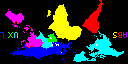
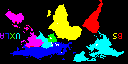
worldmap2

Changed region(s): [[0.0, 0.5, 0.1562, 0.625], [0.875, 0.5, 1.0, 0.625]]

diff --git a/comWithBox/server/webapp/app.js b/comWithBox/server/webapp/app.js
@@ -1,6 +1,6 @@
 var img1 = [0, 0, 0, 0, 0, 0, 0, 0, 0, 0, 0, 0, 64, 64, 64, 0, 0, 0, 0, 0, 0, 0, 0, 0, 120, 104, 120, 120, 96, 56, 120, 96, 88, 120, 96, 88, 56, 32, 24, 56, 48, 56, 44, 36, 44, 12, 4, 12, 0, 0, 0, 0, 0, 0, 0, 0, 0, 64, 64, 64, 64, 64, 64, 0, 0, 0, 0, 0, 0, 0, 0, 0, 88, 72, 88, 120, 96, 120, 120, 96, 88, 56, 32, 24, 56, 32, 24, 56, 32, 56, 8, 0, 8, 8, 0, 8, 0, 0, 0, 0, 0, 0, 0, 0, 0, 0, 0, 0, 64, 64, 64, 64, 64, 64, 0, 0, 0, 0, 0, 0, 48, 32, 48, 56, 40, 24, 56, 32, 24, 56, 32, 24, 56, 32, 56, 56, 48, 56, 8, 0, 8, 8, 0, 8, 0, 0, 0, 0, 0, 0, 0, 0, 0, 0, 0, 0, 64, 64, 64, 0, 0, 64, 0, 0, 0, 0, 0, 0, 48, 32, 48, 56, 40, 24, 56, 32, 24, 56, 32, 24, 56, 32, 56, 24, 16, 24, 8, 0, 8, 24, 16, 24, 0, 0, 0, 0, 0, 0, 64, 64, 64, 64, 64, 64, 0, 0, 64, 0, 0, 64, 64, 64, 64, 0, 0, 0, 48, 32, 48, 56, 40, 56, 56, 32, 56, 56, 32, 56, 24, 0, 24, 24, 16, 24, 24, 16, 24, 24, 16, 8, 0, 0, 0, 0, 0, 0, 64, 64, 64, 0, 0, 64, 0, 0, 64, 0, 0, 64, 64, 64, 64, 0, 0, 0, 48, 32, 48, 24, 0, 24, 24, 0, 24, 56, 32, 56, 24, 0, 24, 24, 16, 24, 24, 16, 24, 24, 16, 8, 0, 0, 0, 64, 64, 64, 0, 0, 64, 0, 0, 64, 0, 0, 64, 0, 0, 64, 64, 64, 64, 0, 0, 0, 56, 40, 56, 24, 0, 24, 24, 0, 24, 24, 0, 24, 24, 0, 24, 8, 0, 8, 24, 16, 24, 24, 16, 8, 0, 0, 0, 64, 64, 64, 0, 0, 64, 0, 0, 64, 0, 0, 64, 0, 0, 64, 64, 64, 64, 0, 0, 0, 48, 32, 48, 24, 0, 24, 24, 0, 24, 24, 16, 24, 8, 0, 8, 8, 0, 8, 8, 0, 8, 24, 16, 24, 0, 0, 0, 64, 64, 64, 0, 0, 64, 0, 0, 64, 0, 0, 64, 0, 0, 64, 64, 64, 64, 0, 0, 0, 16, 0, 16, 16, 0, 16, 24, 24, 24, 8, 0, 8, 8, 0, 8, 8, 0, 8, 8, 0, 8, 8, 0, 8, 64, 64, 64, 64, 64, 64, 64, 64, 64, 0, 0, 64, 0, 0, 64, 0, 0, 64, 64, 64, 64, 32, 32, 32, 16, 16, 16, 0, 0, 0, 0, 0, 0, 72, 72, 72, 72, 72, 72, 8, 0, 8, 8, 0, 8, 8, 8, 8, 64, 64, 64, 64, 64, 64, 64, 64, 64, 0, 0, 64, 0, 0, 64, 0, 0, 64, 96, 96, 96, 0, 0, 32, 0, 0, 0, 0, 0, 0, 0, 0, 0, 192, 192, 192, 192, 192, 192, 128, 128, 128, 0, 0, 0, 0, 0, 0, 0, 0, 0, 64, 64, 64, 64, 64, 64, 0, 0, 64, 0, 0, 64, 32, 32, 96, 64, 64, 96, 32, 32, 32, 128, 128, 128, 128, 128, 128, 128, 128, 128, 192, 192, 192, 192, 192, 192, 128, 128, 128, 0, 0, 0, 0, 0, 0, 0, 0, 0, 64, 64, 64, 0, 0, 64, 0, 0, 64, 0, 0, 64, 0, 0, 64, 32, 32, 96, 0, 0, 0, 0, 0, 0, 128, 128, 128, 128, 0, 0, 192, 64, 64, 128, 0, 0, 128, 0, 0, 192, 192, 192, 64, 64, 64, 0, 0, 0, 2, 2, 66, 2, 2, 66, 2, 2, 66, 2, 2, 66, 2, 2, 66, 0, 0, 64, 64, 64, 64, 128, 128, 128, 128, 128, 128, 128, 0, 0, 128, 0, 0, 128, 0, 0, 128, 0, 0, 192, 192, 192, 192, 192, 192, 66, 66, 66, 0, 2, 66, 0, 2, 66, 0, 2, 66, 0, 2, 66, 2, 2, 66, 2, 2, 66, 65, 65, 65, 128, 0, 0, 128, 0, 0, 128, 0, 0, 128, 0, 0, 128, 0, 0, 128, 128, 128, 192, 128, 128, 192, 128, 128, 68, 70, 70, 0, 2, 66, 0, 2, 66, 0, 2, 66, 0, 2, 66, 0, 2, 66, 2, 2, 66, 67, 67, 67, 128, 0, 0, 128, 0, 0, 128, 0, 0, 128, 0, 0, 128, 0, 0, 192, 192, 192, 192, 128, 128, 192, 128, 128, 196, 198, 198, 4, 6, 70, 4, 6, 70, 0, 2, 66, 0, 2, 66, 0, 2, 66, 0, 2, 66, 1, 3, 67, 128, 0, 0, 128, 0, 0, 128, 0, 0, 132, 4, 4, 196, 68, 68, 192, 64, 64, 192, 0, 0, 192, 128, 128, 68, 70, 70, 4, 6, 70, 0, 2, 66, 32, 34, 98, 32, 34, 98, 32, 34, 98, 0, 2, 66, 67, 67, 67, 128, 0, 0, 128, 0, 0, 132, 4, 4, 132, 4, 0, 196, 68, 64, 196, 4, 4, 192, 0, 0, 192, 128, 128, 6, 6, 70, 2, 2, 66, 32, 34, 98, 32, 34, 98, 0, 2, 98, 32, 34, 98, 0, 2, 66, 98, 98, 98, 132, 4, 4, 132, 4, 4, 128, 4, 0, 192, 68, 64, 192, 4, 0, 196, 4, 4, 194, 2, 2, 194, 130, 130, 4, 4, 68, 38, 38, 102, 4, 6, 102, 0, 2, 98, 0, 2, 98, 0, 2, 98, 0, 2, 98, 64, 66, 98, 128, 4, 0, 192, 68, 64, 192, 68, 64, 192, 68, 64, 192, 4, 0, 198, 6, 6, 194, 2, 0, 192, 130, 128, 32, 36, 100, 2, 6, 102, 4, 6, 102, 0, 2, 98, 0, 2, 98, 0, 2, 98, 0, 2, 98, 64, 66, 98, 128, 4, 0, 192, 68, 64, 192, 4, 0, 192, 4, 0, 192, 4, 0, 194, 6, 2, 196, 134, 132, 192, 130, 128, 36, 36, 100, 6, 6, 102, 0, 2, 98, 0, 2, 98, 0, 2, 98, 0, 2, 98, 0, 2, 98, 64, 66, 98, 128, 4, 0, 128, 4, 0, 192, 68, 64, 194, 6, 2, 194, 6, 2, 194, 6, 0, 196, 134, 132, 64, 2, 0, 132, 132, 228, 2, 2, 98, 0, 2, 98, 0, 2, 98, 0, 2, 98, 16, 18, 114, 16, 18, 114, 16, 18, 114, 136, 12, 8, 128, 4, 0, 130, 6, 2, 194, 70, 64, 192, 70, 64, 192, 70, 64, 196, 198, 196, 68, 70, 68, 132, 132, 228, 2, 2, 98, 0, 2, 98, 0, 2, 98, 0, 2, 98, 0, 2, 98, 0, 2, 98, 16, 18, 114, 136, 140, 128, 138, 14, 10, 128, 6, 0, 128, 6, 0, 128, 6, 0, 128, 6, 0, 132, 134, 128, 64, 70, 64, 128, 128, 224, 2, 2, 98, 16, 18, 114, 16, 18, 114, 16, 18, 114, 16, 18, 114, 16, 18, 114, 18, 18, 114, 2, 14, 2, 136, 142, 136, 128, 6, 0, 128, 6, 0, 160, 38, 32, 160, 38, 32, 128, 134, 128, 1, 7, 1, 130, 130, 226, 16, 18, 114, 0, 2, 114, 0, 2, 114, 0, 2, 114, 0, 2, 114, 18, 18, 114, 16, 16, 112, 2, 14, 0, 8, 14, 8, 136, 142, 136, 128, 6, 0, 160, 38, 32, 160, 38, 32, 160, 166, 160, 1, 7, 1, 146, 146, 242, 2, 2, 114, 2, 2, 114, 0, 2, 114, 0, 2, 114, 0, 2, 114, 2, 2, 114, 0, 0, 112, 64, 78, 64, 32, 46, 32, 168, 174, 160, 136, 14, 8, 224, 102, 96, 224, 198, 192, 161, 167, 161, 160, 167, 160, 144, 144, 240, 128, 128, 240, 128, 128, 240, 2, 2, 114, 2, 2, 114, 2, 2, 114, 0, 0, 112, 0, 0, 112, 64, 78, 64, 32, 46, 32, 224, 238, 224, 232, 110, 104, 225, 231, 225, 225, 199, 193, 161, 135, 129, 160, 135, 128, 128, 128, 240, 128, 128, 240, 128, 128, 240, 0, 0, 112, 0, 0, 112, 0, 0, 112, 0, 0, 112, 8, 8, 120, 64, 78, 64, 33, 47, 33, 225, 239, 225, 233, 175, 169, 97, 71, 64, 224, 199, 192, 224, 199, 192, 160, 135, 128, 128, 128, 240, 128, 128, 240, 128, 128, 240, 8, 8, 120, 8, 8, 120, 8, 8, 120, 8, 8, 120, 8, 8, 120, 97, 111, 97, 99, 111, 98, 42, 47, 42, 234, 143, 138, 98, 71, 66, 226, 135, 130, 226, 71, 66, 226, 199, 194, 0, 0, 240, 0, 0, 240, 136, 136, 248, 136, 136, 248, 0, 0, 120, 0, 0, 120, 0, 0, 120, 0, 0, 120, 103, 15, 7, 97, 13, 1, 33, 13, 1, 105, 77, 73, 225, 197, 193, 225, 69, 65, 225, 69, 65, 241, 213, 209, 0, 0, 240, 0, 0, 240, 128, 128, 240, 8, 8, 120, 0, 0, 120, 0, 0, 120, 0, 0, 120, 0, 0, 120, 104, 40, 32, 108, 108, 108, 44, 12, 8, 225, 197, 193, 160, 132, 128, 176, 20, 16, 240, 244, 240, 240, 244, 240, 0, 0, 240, 0, 0, 240, 128, 128, 240, 8, 8, 120, 8, 8, 120, 0, 0, 120, 0, 0, 120, 0, 0, 120, 104, 104, 104, 160, 160, 160, 172, 172, 172, 164, 132, 132, 180, 52, 52, 180, 164, 164, 212, 196, 196, 212, 196, 196, 0, 0, 240, 0, 0, 240, 0, 0, 112, 0, 0, 112, 0, 0, 112, 8, 8, 120, 0, 0, 120, 0, 0, 120, 160, 160, 160, 176, 176, 176, 184, 184, 184, 248, 216, 216, 240, 224, 224, 244, 228, 228, 240, 96, 96, 208, 192, 192, 0, 0, 240, 128, 128, 240, 0, 0, 112, 0, 0, 112, 0, 0, 112, 0, 0, 112, 8, 8, 120, 8, 8, 120, 160, 128, 128, 160, 160, 160, 232, 232, 232, 248, 216, 216, 248, 192, 192, 248, 200, 200, 240, 224, 224, 80, 64, 64, 0, 0, 240, 128, 128, 240, 0, 0, 112, 0, 0, 112, 0, 0, 112, 0, 0, 112, 0, 0, 112, 8, 8, 120, 160, 160, 160, 160, 160, 160, 32, 32, 32, 120, 120, 120, 248, 232, 232, 248, 200, 200, 184, 168, 168, 88, 72, 72, 0, 0, 240, 128, 128, 240, 0, 0, 112, 0, 0, 112, 0, 0, 112, 0, 0, 112, 0, 0, 112, 8, 8, 120, 32, 0, 0, 32, 0, 0, 240, 240, 240, 112, 96, 96, 248, 136, 136, 248, 192, 192, 184, 136, 136, 56, 40, 40, 128, 128, 240, 0, 0, 112, 0, 0, 112, 0, 0, 112, 0, 0, 112, 0, 0, 112, 8, 8, 120, 8, 8, 120, 96, 64, 64, 96, 64, 64, 240, 208, 208, 240, 128, 128, 112, 0, 0, 248, 200, 200, 120, 72, 72, 48, 32, 32, 128, 128, 240, 0, 0, 112, 0, 0, 112, 0, 0, 112, 0, 0, 112, 8, 8, 120, 8, 8, 120, 64, 64, 120, 96, 0, 0, 96, 0, 0, 240, 144, 144, 112, 0, 0, 112, 0, 0, 120, 72, 72, 120, 72, 72, 120, 72, 72, 0, 0, 112, 0, 0, 112, 0, 0, 112, 8, 8, 120, 8, 8, 120, 72, 72, 120, 0, 0, 120, 64, 64, 120, 112, 16, 16, 112, 16, 16, 112, 0, 0, 112, 0, 0, 112, 0, 0, 120, 72, 72, 56, 0, 0, 56, 0, 0, 0, 0, 112, 0, 0, 112, 8, 8, 120, 8, 8, 120, 0, 0, 120, 64, 64, 120, 64, 64, 120, 64, 64, 120, 112, 0, 0, 112, 0, 0, 112, 0, 0, 112, 0, 0, 112, 0, 0, 112, 64, 64, 56, 8, 8, 56, 0, 0, 0, 0, 112, 0, 0, 112, 0, 0, 112, 0, 0, 112, 8, 8, 120, 8, 8, 56, 8, 8, 56, 72, 72, 120, 112, 0, 0, 112, 0, 0, 112, 0, 0, 112, 0, 0, 112, 0, 0, 112, 64, 64, 56, 8, 8, 56, 8, 8, 128, 128, 240, 0, 0, 112, 0, 0, 112, 0, 0, 112, 64, 64, 112, 64, 64, 112, 0, 0, 112, 72, 72, 120, 112, 16, 16, 112, 0, 0, 112, 0, 0, 112, 0, 0, 112, 64, 64, 112, 64, 64, 48, 0, 0, 56, 8, 8, 16, 16, 112, 0, 0, 112, 0, 0, 112, 0, 0, 112, 64, 64, 112, 64, 64, 112, 64, 64, 112, 64, 64, 112, 112, 16, 16, 112, 16, 16, 112, 16, 16, 112, 0, 0, 112, 64, 64, 112, 64, 64, 48, 0, 0, 48, 0, 0, 0, 0, 96, 0, 0, 112, 0, 0, 112, 0, 0, 112, 0, 0, 112, 0, 0, 112, 64, 64, 112, 0, 0, 48, 96, 0, 0, 112, 16, 16, 112, 16, 16, 112, 16, 16, 112, 0, 0, 112, 64, 64, 48, 0, 0, 48, 0, 0, 0, 0, 96, 16, 16, 112, 0, 0, 112, 0, 0, 112, 0, 0, 112, 0, 0, 112, 64, 64, 112, 0, 0, 48, 96, 0, 0, 96, 0, 0, 112, 16, 16, 112, 16, 16, 112, 0, 0, 112, 64, 64, 112, 64, 64, 48, 0, 0, 0, 0, 96, 48, 48, 112, 32, 32, 112, 0, 0, 112, 0, 0, 112, 0, 0, 112, 0, 0, 48, 8, 8, 56, 96, 0, 0, 96, 0, 0, 96, 0, 0, 96, 0, 0, 112, 16, 16, 112, 16, 16, 112, 64, 64, 48, 0, 0, 16, 16, 112, 16, 16, 112, 0, 0, 112, 0, 0, 112, 0, 0, 112, 64, 64, 112, 8, 8, 56, 8, 8, 56, 96, 0, 0, 96, 0, 0, 96, 32, 32, 96, 32, 32, 96, 0, 0, 112, 16, 16, 112, 80, 80, 48, 0, 0, 48, 48, 112, 0, 0, 96, 16, 16, 112, 0, 0, 112, 0, 0, 112, 72, 72, 120, 24, 24, 56, 16, 16, 56, 96, 32, 32, 96, 32, 32, 96, 32, 32, 96, 32, 32, 96, 0, 0, 96, 0, 0, 112, 80, 80, 48, 16, 16, 48, 48, 112, 0, 0, 64, 16, 16, 80, 8, 8, 120, 0, 0, 112, 72, 72, 120, 16, 16, 56, 0, 0, 40, 64, 0, 0, 64, 0, 0, 64, 0, 0, 64, 0, 0, 96, 32, 32, 96, 0, 0, 96, 64, 64, 32, 0, 0, 0, 0, 80, 56, 56, 120, 56, 48, 120, 24, 24, 120, 0, 0, 112, 72, 72, 120, 16, 16, 56, 16, 16, 56, 64, 0, 0, 64, 0, 0, 64, 0, 0, 64, 0, 0, 64, 0, 0, 96, 32, 32, 96, 96, 96, 32, 0, 0, 8, 8, 120, 8, 0, 120, 8, 0, 120, 8, 8, 120, 72, 72, 120, 64, 64, 120, 0, 0, 56, 4, 4, 60, 64, 0, 0, 64, 0, 0, 64, 0, 0, 64, 0, 0, 64, 0, 0, 64, 64, 64, 64, 64, 64, 32, 32, 32, 8, 0, 120, 8, 0, 120, 8, 0, 120, 8, 8, 120, 64, 64, 112, 8, 8, 56, 4, 4, 60, 4, 0, 60, 64, 64, 64, 64, 0, 0, 64, 0, 0, 64, 0, 0, 64, 0, 0, 64, 64, 64, 64, 64, 64, 0, 0, 0, 104, 96, 120, 108, 100, 124, 76, 68, 124, 76, 68, 124, 8, 0, 56, 12, 12, 60, 36, 32, 52, 60, 56, 60, 64, 64, 64, 64, 0, 0, 64, 0, 0, 64, 0, 0, 64, 0, 0, 64, 0, 0, 64, 64, 64, 0, 0, 0, 76, 68, 12, 92, 80, 28, 108, 96, 60, 108, 96, 124, 108, 96, 124, 108, 96, 124, 44, 40, 60, 60, 56, 28, 0, 0, 0, 64, 64, 64, 64, 0, 0, 64, 0, 0, 64, 0, 0, 64, 0, 0, 64, 64, 64, 0, 0, 0, 92, 80, 28, 124, 112, 60, 124, 112, 60, 124, 112, 92, 124, 112, 92, 124, 112, 28, 110, 98, 94, 46, 34, 30, 0, 0, 0, 64, 64, 64, 64, 0, 0, 64, 0, 0, 64, 0, 0, 64, 0, 0, 64, 64, 64, 0, 0, 0, 92, 64, 28, 124, 96, 60, 124, 96, 60, 126, 114, 30, 110, 98, 14, 110, 96, 14, 110, 96, 94, 46, 32, 30, 0, 0, 0, 64, 64, 64, 64, 0, 0, 64, 0, 0, 64, 0, 0, 64, 0, 0, 64, 64, 64, 0, 0, 0, 124, 96, 60, 124, 96, 124, 126, 98, 62, 126, 112, 30, 110, 96, 14, 110, 96, 14, 126, 112, 94, 62, 48, 30, 0, 0, 0, 64, 64, 64, 64, 0, 0, 64, 0, 0, 64, 0, 0, 64, 0, 0, 64, 64, 64, 0, 0, 0, 124, 96, 124, 126, 98, 94, 126, 96, 30, 126, 96, 30, 110, 96, 14, 110, 96, 14, 110, 96, 14, 126, 112, 94, 0, 0, 0, 64, 64, 64, 64, 0, 0, 64, 0, 0, 64, 0, 0, 64, 0, 0, 64, 0, 0, 64, 64, 64, 124, 96, 92, 126, 96, 94, 126, 96, 94, 126, 96, 94, 126, 112, 94, 110, 96, 14, 126, 112, 94, 62, 48, 62, 64, 64, 64, 64, 0, 0, 64, 0, 0, 64, 0, 0, 64, 0, 0, 64, 0, 0, 64, 0, 0, 64, 64, 64, 60, 32, 28, 62, 32, 30, 62, 32, 30, 126, 96, 94, 110, 96, 14, 110, 96, 14, 110, 96, 110, 62, 48, 62, 64, 64, 64, 64, 0, 0, 64, 0, 0, 64, 0, 0, 64, 0, 0, 64, 0, 0, 64, 0, 0, 96, 96, 96, 124, 96, 124, 126, 98, 94, 126, 98, 94, 126, 112, 30, 110, 96, 14, 110, 96, 78, 110, 96, 110, 30, 16, 30, 64, 64, 64, 64, 0, 0, 64, 0, 0, 64, 64, 64, 64, 64, 64, 64, 0, 0, 96, 96, 96, 32, 32, 32, 124, 96, 60, 124, 96, 60, 124, 96, 28, 124, 96, 28, 110, 98, 78, 110, 96, 78, 14, 0, 14, 62, 48, 62, 0, 0, 0, 64, 64, 64, 64, 64, 64, 64, 64, 64, 64, 64, 64, 64, 64, 64, 64, 64, 64, 0, 0, 0, 124, 100, 124, 124, 100, 60, 124, 100, 28, 124, 100, 28, 124, 116, 92, 44, 32, 12, 14, 2, 14, 46, 34, 46, 0, 0, 0, 0, 0, 0, 0, 0, 0, 64, 64, 64, 64, 64, 64, 64, 64, 64, 0, 0, 0, 0, 0, 0];
 var img2 = [0,0,0,0,0,0,0,0,0,0,0,0,0,0,0,0,0,0,0,0,0,0,0,0,0,148,204,66,136,240,0,165,168,64,96,249,36,146,182,0,136,200,0,192,64,2,36,184,0,0,0,0,0,0,0,0,0,0,0,0,0,0,0,0,0,0,0,0,0,0,0,0,128,64,240,0,112,218,132,75,224,0,144,94,130,76,192,68,112,248,0,34,184,32,216,199,0,0,0,0,0,0,0,0,0,0,0,0,0,0,0,0,0,0,0,0,0,0,0,0,0,162,200,2,136,32,64,145,220,32,96,224,0,160,184,0,136,68,128,144,224,0,36,56,0,0,0,0,0,0,0,0,0,0,0,0,0,0,0,0,0,0,0,0,0,0,0,0,4,92,244,4,68,220,0,105,226,130,146,186,2,14,226,38,114,186,2,106,250,98,194,226,0,0,0,0,0,0,0,0,0,0,0,0,0,0,0,0,64,64,0,0,0,0,0,0,6,134,6,70,182,230,134,199,94,38,46,166,66,226,90,130,130,230,2,6,202,6,186,126,0,0,0,0,0,0,0,0,0,0,0,0,0,0,0,0,64,64,0,0,0,0,0,0,6,70,198,6,70,246,6,39,166,6,214,246,6,6,230,66,242,178,34,98,226,195,195,243,0,32,32,0,32,32,2,0,2,2,16,18,2,16,18,2,80,82,2,16,18,2,16,18,6,166,54,134,150,134,6,135,214,230,39,102,6,246,214,2,2,98,130,150,246,3,43,235,4,0,4,6,32,38,2,48,50,0,16,16,0,0,0,0,0,0,0,64,64,2,0,2,68,84,196,6,102,246,4,196,164,6,87,214,6,134,166,38,118,246,2,194,66,67,67,155,0,0,0,6,16,22,4,32,36,0,32,32,0,0,0,0,0,0,0,64,64,0,0,0,6,166,246,6,22,198,134,134,246,70,39,118,4,68,70,70,134,150,2,50,242,131,171,227,0,0,0,2,16,18,4,0,4,4,32,36,0,32,32,0,0,0,0,64,64,0,0,0,6,6,6,70,102,118,6,87,70,6,199,198,38,182,246,134,102,230,0,192,96,3,83,211,2,16,18,2,0,2,0,0,0,4,0,4,0,32,32,0,96,96,0,0,0,0,0,0,134,70,198,6,134,134,6,135,182,134,54,182,6,6,134,6,150,182,34,34,146,3,131,163,2,16,18,0,0,0,0,0,0,4,0,4,4,0,4,0,96,96,8,32,40,0,8,8,6,198,198,6,7,198,70,71,70,6,135,198,6,198,102,194,98,226,2,130,226,3,99,227,2,64,66,0,0,0,0,0,0,0,0,0,4,64,68,8,64,72,8,32,40,0,40,40,194,2,2,6,198,198,134,6,198,6,199,198,6,39,134,2,194,194,34,98,98,3,3,99,2,66,64,0,64,64,0,64,64,0,64,64,12,96,76,12,0,12,0,0,0,1,1,0,6,198,198,6,6,198,6,198,134,2,2,66,66,67,66,2,2,66,66,2,2,3,99,99,2,2,0,0,0,0,0,0,0,8,0,8,8,32,8,4,0,4,4,0,4,0,0,0,6,6,2,2,66,70,66,2,66,2,67,66,2,3,66,2,66,66,2,66,66,3,3,67,2,2,0,0,0,0,8,0,8,8,32,8,0,32,0,0,32,0,4,0,4,4,0,4,2,2,2,2,2,2,2,2,2,2,3,2,2,2,2,2,2,2,2,2,2,1,1,1,10,2,8,10,2,8,8,0,8,0,32,0,0,32,0,0,32,0,0,0,0,4,0,4,2,2,2,2,2,2,2,2,2,2,3,2,2,2,2,2,2,2,0,0,0,1,1,1,0,0,0,2,2,0,2,34,0,0,32,0,0,32,0,0,32,0,0,32,0,0,0,0,0,0,0,2,2,2,2,2,2,2,3,2,0,0,0,0,0,0,0,0,0,1,1,1,0,0,0,0,0,0,2,34,0,2,34,0,0,32,0,0,32,0,0,32,0,0,0,0,2,2,2,2,2,2,2,2,2,0,1,0,0,0,0,0,0,0,0,0,0,1,1,1,0,96,0,0,96,0,0,96,0,2,34,0,0,32,0,0,32,0,0,48,0,0,48,0,2,2,2,0,0,0,2,3,2,0,1,0,0,0,0,0,0,0,0,0,0,1,1,1,0,96,0,8,104,0,0,96,0,2,114,0,0,112,0,0,112,0,0,48,0,0,48,0,130,2,2,0,0,0,0,1,0,0,1,0,64,0,0,64,0,0,64,0,0,65,1,1,8,104,0,8,104,0,0,96,0,2,34,0,0,32,0,0,32,0,0,48,0,0,48,0,130,2,2,130,2,2,64,1,0,64,1,0,64,0,0,64,0,0,64,0,0,65,1,1,8,8,0,8,8,0,0,32,0,2,34,0,0,32,0,0,32,0,0,32,0,0,0,0,194,2,2,194,2,2,194,3,2,64,0,0,64,0,0,64,0,0,64,0,0,65,1,1,12,12,0,12,12,0,2,34,0,2,34,0,0,32,0,0,32,0,0,32,0,4,4,0,194,2,2,194,2,2,194,3,2,192,0,0,64,0,0,64,0,0,64,0,0,97,1,1,8,8,0,12,12,0,6,6,0,4,36,0,4,36,0,0,32,0,4,4,0,4,4,0,194,2,2,194,2,2,194,3,2,194,2,2,192,0,0,64,0,0,96,0,0,97,1,1,8,8,0,12,12,0,6,6,0,4,36,0,4,36,0,4,36,0,4,4,0,4,4,0,194,2,2,194,2,2,194,3,2,194,2,2,194,2,2,96,0,0,96,0,0,97,1,1,8,8,0,8,8,0,14,14,0,4,4,0,4,36,0,4,4,0,4,4,0,4,4,0,194,2,2,194,2,2,194,3,2,194,3,2,226,2,2,98,2,2,96,0,0,97,1,1,8,8,0,8,8,0,10,10,0,12,12,0,12,44,0,12,12,0,4,4,0,4,4,0,194,2,2,194,2,2,194,2,2,226,3,2,226,2,2,98,2,2,98,2,2,97,1,1,8,8,0,10,10,0,10,10,0,12,12,0,12,12,0,12,12,0,12,12,0,12,12,0,194,2,2,194,2,2,194,2,2,226,3,2,98,2,2,96,0,0,98,2,2,97,1,1,10,10,0,10,10,0,8,8,0,12,12,0,12,12,0,12,12,0,4,4,0,4,4,0,198,6,6,194,2,2,226,3,2,224,1,0,98,2,2,98,2,2,98,2,2,99,3,3,10,10,0,8,8,0,12,12,0,4,4,0,4,4,0,4,4,0,4,4,0,5,5,0,198,6,6,230,6,6,224,1,2,98,2,2,98,2,2,98,2,2,98,2,2,99,3,3,8,8,0,12,12,0,4,4,0,4,4,0,4,4,0,5,5,0,5,5,0,5,5,0,198,6,6,230,6,6,230,7,6,98,2,2,98,2,2,98,2,2,98,2,2,99,3,3,8,8,0,12,12,0,4,4,0,4,4,0,5,5,0,1,1,0,4,4,0,4,4,0,230,6,6,100,4,4,102,7,6,102,7,6,102,6,6,98,2,2,98,2,2,99,3,3,12,12,0,12,12,0,0,0,0,0,0,0,1,1,0,0,0,0,0,0,0,4,4,0,102,6,6,102,6,6,98,6,2,103,2,2,102,6,6,102,6,6,98,2,2,98,2,2,8,8,0,8,8,0,0,0,0,0,0,0,1,1,0,0,0,0,0,0,0,0,0,0,228,0,0,98,6,2,102,2,6,103,6,2,102,6,6,102,6,6,98,2,2,99,3,3,8,72,0,72,8,64,0,64,64,0,64,64,1,1,64,0,64,64,0,64,64,0,0,32,196,4,4,230,2,6,230,6,2,103,6,6,102,2,6,102,6,2,98,2,2,101,1,1,0,0,192,8,200,192,0,0,128,1,1,64,65,65,64,0,32,32,0,0,96,64,96,64,206,14,10,230,6,6,230,6,6,99,2,2,102,2,2,102,6,6,102,6,6,102,4,6,0,0,128,128,128,192,64,192,224,1,97,224,0,128,224,0,64,64,64,96,64,0,0,32,206,14,10,206,10,14,230,6,2,231,6,6,103,6,6,102,6,2,100,4,4,103,7,7,0,128,194,0,64,34,128,160,128,0,0,65,0,192,129,0,32,225,128,192,225,0,32,65,206,14,14,200,8,10,206,14,14,238,14,12,103,6,6,102,6,6,102,6,4,103,5,1,128,224,160,0,0,194,0,64,224,0,128,160,128,160,224,0,64,128,0,128,64,0,64,224,200,8,8,206,14,6,206,10,10,238,14,14,237,12,10,103,6,6,100,4,4,103,7,7,0,0,64,64,160,162,0,128,128,64,32,160,64,64,0,64,160,160,0,0,160,128,176,144,206,14,14,206,4,4,204,14,14,206,14,10,238,10,14,101,4,4,103,4,6,101,5,5,192,192,162,64,64,66,64,64,64,64,64,64,192,192,192,64,64,192,96,224,192,96,64,224,206,14,6,204,12,8,206,14,14,206,14,6,206,14,14,110,14,10,101,4,4,103,7,7,224,128,130,224,224,224,224,224,192,224,224,224,96,96,96,96,0,0,192,64,192,64,192,64,204,6,12,206,12,14,206,14,14,206,14,14,204,12,12,77,8,12,102,6,6,103,7,7,160,224,66,160,128,160,224,160,160,224,192,192,224,160,160,224,224,224,112,240,112,112,112,240,206,14,6,206,14,14,206,14,10,204,12,4,79,14,14,77,12,8,70,6,6,102,6,4,224,224,194,224,224,224,160,128,128,224,224,224,48,32,32,112,112,48,112,96,96,112,112,113,206,14,14,206,14,14,204,12,12,79,14,14,77,12,12,78,14,14,78,14,14,71,7,7,160,128,160,96,96,96,32,32,32,112,48,16,80,80,224,80,240,240,80,80,208,192,240,225,142,14,6,140,12,12,204,12,8,77,12,12,79,14,6,78,14,10,78,14,14,71,3,5,32,98,74,34,160,128,224,64,226,80,128,128,208,80,84,80,196,196,84,208,245,48,36,181,140,12,12,12,12,12,12,12,4,12,12,12,79,14,14,78,14,14,78,14,14,71,1,1,96,200,168,96,98,232,116,176,4,112,116,244,102,242,246,48,20,133,144,148,21,48,82,194,12,8,8,12,12,12,12,12,12,14,12,12,47,14,42,46,14,46,44,12,44,34,2,34,234,96,202,80,200,216,240,124,252,112,192,224,48,52,149,48,224,241,112,112,164,48,165,244,76,12,76,76,12,64,44,12,44,46,14,46,47,14,38,46,14,46,46,12,44,38,2,34,96,232,108,120,112,240,114,202,74,50,54,190,166,194,71,18,22,198,54,134,214,50,114,84,72,0,64,108,12,108,108,12,108,47,6,34,47,14,44,46,14,46,46,14,46,38,6,38,246,126,238,54,182,190,50,58,250,178,242,226,98,36,183,48,242,118,178,118,230,51,179,243,100,0,96,108,12,108,110,4,108,111,14,110,14,14,14,14,12,12,6,6,2,38,6,38,60,182,30,54,108,236,52,246,182,48,32,196,50,246,247,50,50,242,50,178,178,115,116,114,44,12,172,108,0,224,110,14,102,14,14,78,15,14,74,15,12,76,6,6,70,4,4,68,54,118,230,118,182,246,190,62,126,98,226,226,176,48,113,118,226,228,144,84,214,25,147,221,44,12,236,36,4,228,46,10,234,14,14,206,12,12,204,7,6,70,6,6,70,22,4,84,178,186,216,52,112,246,58,246,178,54,58,238,58,254,187,18,18,86,18,22,146,27,251,255,36,4,228,38,4,228,10,10,202,14,14,198,15,14,204,7,6,198,4,4,68,22,6,114,52,116,36,54,182,254,118,54,246,18,82,82,6,6,199,88,240,230,50,178,114,154,94,254,36,4,100,36,0,96,12,12,204,78,8,200,79,14,202,14,14,142,6,4,164,18,2,50,116,60,252,20,84,84,152,24,16,24,244,244,18,170,239,154,86,246,26,94,246,86,178,182,36,4,100,36,4,32,78,14,78,75,10,66,78,14,206,12,12,142,2,2,160,18,2,50,20,148,222,20,222,252,80,112,236,16,144,244,120,84,17,20,184,252,56,48,84,0,132,160,32,0,96,38,6,102,70,6,70,79,14,206,78,14,204,14,8,136,2,2,162,18,2,50,138,104,168,16,48,122,48,148,208,26,124,255,144,48,245,8,196,160,128,140,180,8,96,228,36,4,100,38,6,228,6,6,198,79,10,194,73,8,200,10,10,138,10,10,42,18,0,48,96,130,224,16,200,168,148,122,124,64,128,229,12,142,172,0,32,198,110,224,172,8,30,119,36,4,228,38,6,230,34,2,226,2,0,192,11,10,202,11,10,202,10,10,74,18,2,112,8,104,200,0,32,234,32,204,252,2,52,131,40,104,124,8,94,120,0,4,228,1,224,212,36,4,228,36,0,224,34,0,224,2,2,194,2,2,66,3,2,66,1,0,64,2,2,66,128,154,108,76,64,216,130,160,160,0,64,117,68,148,228,128,160,118,66,224,148,160,18,233,96,0,224,96,0,224,96,0,96,34,2,98,34,2,98,3,0,64,3,2,66,34,2,98,0,64,208,0,184,170,32,70,112,0,176,203,0,98,184,0,92,228,36,4,252,0,236,246,64,0,64,96,0,96,98,2,98,34,2,34,32,2,32,35,0,34,34,2,32,32,0,32,4,164,136,2,0,116,0,184,168,68,64,249,162,136,240,0,160,206,0,250,32,192,0,248,64,0,64,64,0,64,34,2,34,34,2,34,33,0,32,32,0,32,34,0,32,32,0,32,64,74,114,0,112,232,160,66,86,0,184,225,0,100,104,2,80,240,192,32,250,0,216,196,0,0,0,0,0,0,0,0,0,0,0,0,33,0,32,33,0,32,33,0,32,32,0,32];
-
+var img3 = [0,0,0,16,0,16,16,0,16,16,0,16,16,0,16,16,0,16,0,0,0,0,0,0,30,30,64,30,30,64,30,30,64,30,30,192,30,30,96,30,30,96,14,14,32,15,15,32,0,0,0,0,0,0,0,0,0,16,0,16,0,0,0,0,0,0,16,0,16,0,0,0,28,28,64,30,30,64,30,30,64,30,30,64,30,30,32,30,30,32,14,14,32,14,14,32,0,0,0,0,0,0,0,0,0,16,0,16,0,0,0,0,0,0,16,0,16,0,0,0,28,28,0,28,28,0,28,28,64,28,28,64,30,30,32,30,30,32,30,30,32,14,14,32,0,0,0,16,0,16,16,0,16,16,0,16,16,0,16,16,0,16,0,0,0,0,0,0,24,24,0,24,24,0,24,24,0,24,24,0,24,24,32,28,28,32,30,30,32,14,14,0,0,0,0,0,0,0,0,0,0,0,0,0,0,0,0,0,0,0,0,0,0,0,0,0,56,56,0,24,24,0,24,24,0,24,24,32,24,24,32,24,24,32,28,28,32,28,28,32,0,0,0,0,16,16,0,0,0,0,0,0,0,0,0,0,0,0,2,0,2,0,0,0,16,16,64,16,16,64,24,24,32,24,24,32,24,24,0,24,24,0,24,24,0,24,24,32,0,0,0,0,16,16,0,0,0,0,0,0,0,0,0,2,0,2,2,0,2,2,0,2,16,16,0,16,16,64,24,24,32,24,24,32,24,24,0,24,24,0,24,24,0,24,24,0,4,0,4,0,16,16,0,0,0,0,0,0,2,0,2,2,0,2,2,0,2,2,0,2,16,16,0,16,16,0,16,16,32,24,24,32,24,24,0,24,24,0,24,24,0,24,24,32,4,0,4,6,16,22,0,16,16,2,16,18,2,16,18,2,16,18,2,16,18,2,0,2,16,16,0,16,16,0,16,16,0,24,24,0,24,24,0,24,24,0,24,24,0,24,24,0,4,0,4,4,0,4,4,0,4,2,0,2,2,0,2,2,0,2,2,0,2,2,0,2,16,16,0,16,16,0,24,24,0,24,24,0,24,152,192,24,24,64,24,24,0,24,24,0,4,0,4,20,16,4,4,0,4,6,0,6,2,0,2,2,0,66,18,16,2,2,0,2,16,16,0,16,144,128,24,152,128,24,152,128,24,152,192,24,24,0,24,24,0,24,24,0,4,0,4,4,0,4,20,16,4,4,0,4,2,0,0,18,16,66,2,0,2,2,0,2,16,144,128,16,144,128,24,152,128,24,152,128,24,152,192,24,24,0,24,24,0,24,88,64,12,0,12,4,0,4,4,0,4,20,16,4,20,16,4,6,0,70,2,0,2,2,0,2,16,144,128,16,144,128,24,152,128,24,152,128,24,152,128,24,152,128,24,88,64,8,72,64,4,0,4,12,0,4,20,16,4,4,0,4,4,0,68,22,16,70,6,0,70,2,0,66,16,144,128,16,144,128,24,152,128,24,152,128,24,152,128,24,152,128,8,72,64,8,72,64,4,0,4,28,16,12,12,0,12,4,0,68,4,0,68,4,0,68,22,16,70,6,0,2,16,144,128,16,144,128,24,152,128,24,152,128,24,152,128,8,136,128,8,72,64,8,72,64,4,0,4,12,0,12,12,0,12,4,0,68,4,0,68,4,0,64,2,0,64,2,0,2,16,144,128,16,144,128,16,144,128,24,152,128,24,152,128,8,136,128,8,72,64,8,72,64,4,0,4,12,0,12,12,16,28,4,16,84,4,16,84,4,16,80,0,16,80,2,0,2,16,144,128,16,144,128,16,144,128,0,128,128,8,136,128,8,200,192,8,72,64,8,72,64,4,0,68,4,16,84,12,0,76,12,0,68,4,0,68,4,0,68,6,0,70,6,0,38,0,128,128,0,128,128,0,128,128,0,128,128,0,192,192,8,72,64,8,72,64,0,64,64,4,0,68,4,16,84,4,0,4,4,0,68,4,0,68,4,0,68,6,0,70,6,0,2,0,128,128,8,128,128,0,128,128,0,192,192,0,192,192,0,64,64,0,64,64,0,64,64,4,0,4,4,0,4,4,16,20,12,16,92,4,16,84,6,16,86,2,16,82,2,0,2,8,128,128,8,128,128,8,128,128,0,192,192,0,192,192,0,64,64,0,64,64,0,64,64,4,0,4,4,0,4,4,0,68,4,0,68,4,0,68,6,0,70,6,0,70,2,0,2,8,128,128,8,128,128,8,128,128,0,128,128,0,192,192,0,64,64,4,0,0,4,0,0,4,0,4,36,0,36,36,0,100,4,0,68,36,0,100,6,0,70,2,0,66,2,0,2,8,0,0,8,128,128,8,128,128,0,128,128,4,128,128,4,0,0,4,0,0,4,0,0,4,0,4,36,0,36,4,0,68,4,0,68,0,0,64,0,0,64,0,0,64,34,0,34,8,0,0,8,0,0,8,128,128,12,128,128,4,0,0,4,0,0,4,32,32,4,0,0,36,0,36,36,0,36,4,0,68,4,0,68,0,0,64,0,0,64,0,0,96,8,0,104,8,0,0,8,0,0,8,128,128,12,128,128,12,128,128,4,0,0,4,32,32,4,32,32,48,0,48,0,0,0,0,0,64,8,0,64,8,0,104,0,0,96,0,0,96,0,0,96,8,64,64,8,0,0,12,128,128,12,0,0,12,128,128,12,0,0,4,0,0,4,32,32,0,0,64,32,0,96,0,0,64,0,0,64,8,0,104,32,0,96,0,0,96,0,0,96,12,64,64,12,64,64,12,0,0,12,0,0,12,192,192,12,32,32,12,64,64,4,32,32,0,0,64,8,0,200,32,0,64,40,0,104,40,0,104,40,0,104,40,0,64,0,0,96,12,64,64,12,64,64,12,0,0,12,0,0,12,160,160,12,32,32,12,96,96,6,96,96,0,0,64,8,0,192,0,0,64,40,0,104,40,0,96,40,0,104,32,0,96,16,0,112,12,64,64,12,64,64,12,64,64,12,192,192,12,128,128,12,96,96,14,96,96,14,96,96,32,0,96,8,0,72,0,0,64,32,0,96,40,0,104,48,0,112,48,0,112,48,0,80,28,192,192,12,64,64,12,192,192,12,128,128,12,160,160,14,96,96,14,96,96,14,96,96,32,0,96,32,0,96,40,0,104,32,0,96,32,0,96,48,0,112,48,0,112,48,0,48,28,192,192,12,64,64,12,128,128,12,0,0,14,224,224,14,96,96,14,96,96,14,96,96,48,0,240,48,0,112,32,0,96,56,0,112,32,0,96,48,0,112,48,0,80,16,0,112,28,128,128,12,0,0,12,128,128,14,176,176,14,160,160,14,96,96,14,96,96,14,96,96,32,0,96,48,0,112,48,0,112,32,0,96,56,0,120,56,0,120,56,0,88,16,0,112,28,64,64,12,160,160,12,32,32,14,160,160,14,224,224,14,96,96,14,96,96,14,32,32,32,0,96,48,0,112,48,0,112,48,0,112,48,0,112,56,0,120,56,0,88,16,0,112,28,224,224,12,32,32,14,32,32,14,32,32,46,112,112,46,96,96,14,96,96,14,32,32,48,0,240,48,0,112,48,0,112,48,0,112,48,0,112,48,0,112,48,0,80,16,0,112,14,96,96,14,96,96,14,32,32,10,32,32,42,96,96,14,96,96,14,48,48,6,112,112,32,0,224,32,0,96,32,0,96,48,0,112,48,0,112,48,0,112,48,0,112,16,0,112,10,224,224,10,96,96,10,32,32,10,96,96,10,96,96,3,96,96,6,96,96,7,56,56,32,0,224,32,0,224,32,0,96,48,0,112,48,0,112,48,0,112,48,0,112,16,0,112,3,112,112,2,112,112,10,96,96,2,96,96,3,96,96,1,96,96,1,32,32,1,32,32,32,0,224,32,0,224,32,0,96,32,0,96,48,0,112,32,16,112,32,16,112,16,0,112,3,224,224,3,240,240,2,96,96,3,112,112,1,112,112,1,96,96,1,32,32,1,112,112,32,0,224,32,0,224,32,0,224,32,0,96,32,0,96,32,16,112,32,16,112,16,0,112,1,96,96,1,224,224,1,112,112,1,96,96,1,96,96,1,96,96,1,96,96,0,112,112,32,0,224,32,0,224,32,0,224,32,0,96,32,16,112,32,16,112,32,16,112,16,0,112,0,96,96,0,224,224,0,112,112,1,96,96,1,96,96,0,96,96,0,32,32,0,112,112,32,0,224,32,0,224,32,0,96,32,16,240,32,16,112,32,16,112,32,16,80,16,8,120,0,224,224,0,96,96,0,240,240,0,112,112,0,112,112,0,112,112,0,48,48,0,112,112,32,16,240,32,16,240,32,16,112,32,16,240,32,16,112,32,16,112,0,16,80,16,0,112,0,224,224,0,96,96,0,96,96,0,112,112,0,112,112,0,112,112,0,112,112,0,48,48,32,0,224,32,16,240,32,16,112,32,16,112,32,16,112,0,16,112,0,48,112,0,16,112,0,224,224,0,96,96,0,96,96,0,112,112,0,112,112,0,112,112,0,112,112,0,48,48,0,32,224,0,32,96,32,16,112,32,16,112,0,48,112,0,48,112,0,48,112,0,16,112,0,96,96,0,96,96,0,96,96,0,96,96,0,96,96,0,112,112,0,112,112,0,48,48,0,32,224,0,32,96,32,0,96,0,32,96,0,48,112,0,48,112,0,48,112,0,48,112,0,96,96,0,96,96,0,96,96,0,96,96,0,96,96,0,96,96,0,96,96,0,48,48,0,32,96,0,32,96,0,32,96,0,32,96,0,32,96,0,48,112,0,48,112,0,48,112,0,96,96,0,96,96,0,96,96,0,96,96,0,96,96,0,96,96,0,112,112,0,48,48,0,32,96,0,32,96,0,32,96,0,32,96,0,32,96,0,32,96,0,48,112,0,48,112,0,64,64,0,96,96,0,96,96,0,96,96,0,96,96,0,96,96,0,64,64,0,32,32,0,96,96,0,32,96,0,32,96,0,32,96,0,32,96,0,32,96,0,48,112,0,48,112,0,64,64,0,64,64,0,96,96,0,96,96,0,96,96,0,96,96,0,64,64,0,0,0,4,36,96,0,32,96,0,32,96,0,32,96,0,32,96,0,32,96,0,48,96,2,50,112,0,64,64,0,64,64,0,64,64,0,64,64,0,96,96,0,64,64,0,64,64,0,0,0,0,32,64,0,32,64,2,34,96,2,50,112,10,58,96,2,34,96,2,50,96,2,50,32,0,64,64,0,64,64,0,64,64,0,64,64,0,64,64,0,64,64,0,64,64,0,64,64,0,32,64,0,32,64,10,42,96,10,58,96,10,58,96,2,50,96,2,50,96,2,18,32,0,0,0,0,0,0,16,80,64,16,80,64,0,64,64,0,64,64,16,80,64,0,64,64,0,32,64,8,40,192,8,56,96,10,58,96,10,58,96,16,48,112,18,50,112,0,16,32,0,0,0,16,80,64,0,64,64,0,64,64,16,80,64,0,64,64,16,80,64,0,64,64,8,40,192,8,40,64,40,56,96,40,56,96,8,56,96,32,48,96,16,48,48,0,16,96,0,0,0,16,16,0,0,64,64,0,64,64,16,80,64,0,64,64,16,80,64,0,64,64,8,40,64,8,40,64,8,24,96,8,24,96,40,56,96,40,56,96,0,48,32,4,20,32,0,128,128,16,16,0,0,0,0,0,64,64,0,64,64,16,80,64,0,64,64,0,64,64,12,44,64,12,60,64,12,60,64,12,28,96,8,24,96,8,24,96,12,28,96,6,22,32,0,128,128,0,0,0,0,0,0,0,0,0,0,64,64,0,64,64,0,64,64,0,64,64,12,44,64,12,44,64,12,12,96,12,12,96,12,28,96,12,28,96,12,28,32,6,22,32,0,0,0,0,0,0,16,0,0,16,0,0,0,64,64,16,64,64,0,64,64,0,64,64,28,60,64,12,44,64,12,12,96,46,46,96,14,14,96,14,30,32,14,30,32,14,30,32,0,0,0,16,0,0,0,0,0,0,0,0,16,64,64,0,64,64,16,64,64,0,0,0,28,60,64,30,62,64,30,30,96,14,14,96,46,46,96,46,46,96,14,14,32,14,30,32,0,0,0,16,0,0,0,0,0,0,0,0,16,64,64,0,64,64,16,64,64,0,0,0,30,30,64,30,30,64,30,30,96,30,30,96,46,46,96,30,30,32,14,14,96,14,14,36,0,0,0,16,0,0,16,0,0,16,0,0,16,64,64,16,64,64,16,0,0,0,0,0,30,30,64,30,30,64,30,30,96,30,30,96,62,62,96,62,62,96,15,15,96,15,15,32,0,0,0,0,0,0,0,0,0,0,64,64,0,64,64,0,64,64,0,0,0,0,0,0,30,30,64,30,30,64,30,30,96,30,30,96,30,30,96,31,31,96,15,15,96,15,15,32,0,0,0,0,0,0,0,0,0,0,64,64,0,64,64,0,0,0,0,0,0,0,0,0,30,30,64,30,30,64,30,30,64,30,30,96,30,30,96,31,31,96,15,15,96,15,15,32,0,0,0,0,0,0,0,0,0,0,0,0,0,0,0,0,0,0,0,0,0,0,0,0,30,30,64,30,30,64,30,30,32,30,30,32,94,94,96,31,31,96,15,15,96,15,15,32,0,0,0,0,0,0,0,0,0,0,0,0,0,0,0,0,0,0,0,0,0,0,0,0,30,30,0,30,30,0,30,30,0,30,30,128,30,30,96,31,31,96,31,31,96,15,15,32,0,0,0,0,0,0,0,0,0,0,0,0,0,0,0,0,0,0,0,0,0,0,0,0,30,30,0,30,30,64,30,30,192,30,30,224,31,31,96,31,31,96,31,31,96,15,15,32,0,0,0,0,0,0,0,0,0,0,0,0,0,0,0,0,0,0,0,0,0,0,0,0];
 
 window.ws = new WebSocket('ws://' + location.host);
 

diff --git a/comWithBox/server/webapp/index.html b/comWithBox/server/webapp/index.html
@@ -26,6 +26,7 @@
         <button onclick="sendColor(255)">White image</button>
         <button onclick="sendColor(0)">Black image</button>
         <button onclick="sendImg(img1)">World map</button>
+		<button onclick="sendImg(img3)">World map 2</button>
         <button onclick="sendImg(img2)">Pokemon</button>
     </div>
     <div>
